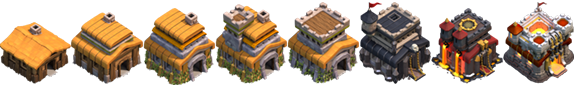
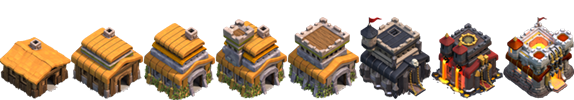
you can now see buildings! upgrade and see changes.

diff --git a/src/viewers/VillageScene.java b/src/viewers/VillageScene.java
@@ -6,6 +6,7 @@ import javafx.scene.image.ImageView;
 import javafx.scene.layout.GridPane;
 import javafx.scene.layout.Pane;
 import models.GameLogic.Entities.Buildings.Building;
+import models.GameLogic.Entities.Buildings.TownHall;
 import viewers.utils.DraggablePane;
 import viewers.utils.ImageLibrary;
 import viewers.utils.IsometricPane;
@@ -20,7 +21,6 @@ public class VillageScene extends Scene{
     private DraggablePane draggableView;
     private GridPane tiles;
     private IsometricPane isometricPane;
-    private Pane buildinsPane;
     private ImageView villageBackground = new ImageView();
 
     private VillageScene() {
@@ -47,15 +47,17 @@ public class VillageScene extends Scene{
         }
         isometricPane = new IsometricPane(tiles);
 
-        buildinsPane = new Pane();
-        for (Building building : AppGUI.getController().getWorld().getMyVillage().getBuildings()) {
-            buildinsPane.getChildren().add(building.getImageView());
-        }
-
         draggableView = new DraggablePane(villageBackground, isometricPane);
         draggableView.setMaxWidth(VIllAGE_BACKGROUND_WIDTH);
         draggableView.setMaxHeight(VIllAGE_BACKGROUND_HEIGHT);
         draggableView.initialize();
+
+        for (Building building : AppGUI.getController().getWorld().getMyVillage().getBuildings()) {
+            ImageView imageView = building.getImageView();
+            int size = (building.getClass().equals(TownHall.class)) ? 2 : 1;
+            IsometricPane.mapToIsometricLayout(imageView, building.getPosition(), size);
+            draggableView.getChildren().add(imageView);
+        }
 
         root.getChildren().clear();
         root.getChildren().addAll(draggableView);

diff --git a/src/models/GameLogic/Entities/Buildings/Building.java b/src/models/GameLogic/Entities/Buildings/Building.java
@@ -1,6 +1,7 @@
 package models.GameLogic.Entities.Buildings;
 
 import interfaces.Upgradable;
+import javafx.geometry.Rectangle2D;
 import models.GameLogic.*;
 import models.GameLogic.Entities.Defender;
 import models.GameLogic.Bounty;
@@ -9,6 +10,7 @@ import models.GameLogic.Exceptions.UpgradeLimitReachedException;
 import models.GameLogic.enums.MoveType;
 import models.ID;
 import models.Setting.GameLogicConfig;
+import viewers.utils.Const;
 
 public abstract class Building extends Defender implements Upgradable, Comparable<Building> {
     protected int score;
@@ -39,6 +41,8 @@ public abstract class Building extends Defender implements Upgradable, Comparabl
         } else {
             this.isUnderConstruct = false;
         }
+        updateViewPort();
+
     }
 
     public int getMaxLevel() {
@@ -111,6 +115,22 @@ public abstract class Building extends Defender implements Upgradable, Comparabl
         if (level >= maxLevel)
             throw new UpgradeLimitReachedException();
         level++;
+        updateViewPort();
+    }
+
+    public void updateViewPort() {
+        double offset = level * Const.BUILDING_TILE_WIDTH;
+        double width = Const.BUILDING_TILE_WIDTH;
+        double height = Const.BUILDING_TILE_HEIGHT;
+        if (this.getClass().equals(TownHall.class)) {
+            offset = level * Const.TOWNHALL_TILE_WIDTH;
+            width = Const.TOWNHALL_TILE_WIDTH;
+            height = Const.TOWNHALL_TILE_HEIGHT;
+        }
+        if (offset >= getImageView().getImage().getWidth()) {
+            return;
+        }
+        getImageView().setViewport(new Rectangle2D(offset, 0, width, height));
     }
 
     @Override

diff --git a/src/controllers/Controller.java b/src/controllers/Controller.java
@@ -35,7 +35,12 @@ public class Controller {
 
     public static void main(String[] args) {
         new Thread(() -> Application.launch(AppGUI.class, args)).start();
-        controller.menuController.openMenu(controller.menuController.getEntranceMenu());
+//        controller.menuController.openMenu(controller.menuController.getEntranceMenu()); //TEMP
+//         TEMP
+        controller.newGame();
+        controller.menuController.openMenu(controller.menuController.getVillageMenu());
+//
+
         while (controller.menuController.isMenuOpen()) {
             try {
                 handleMenuInputs();
@@ -53,7 +58,7 @@ public class Controller {
     }
 
     private static void handleMenuInputs() throws InvalidInputException, NoFreeBuilderException, InvalidPositionException, NotEnoughResourcesException, CountLimitReachedException, NotAvailableAtThisLevelException, FileNotFoundException, TroopNotFoundException {
-        controller.villageViewer = new VillageViewer(controller.world.getMyVillage());
+//        controller.villageViewer = new VillageViewer(controller.world.getMyVillage()); //TEMP
         controller.menuController.printMenu();
         String command = controller.viewer.getInput();
         if (controller.menuController.isMenuItemNumber(command)) {

diff --git a/src/models/GameLogic/Entities/Entity.java b/src/models/GameLogic/Entities/Entity.java
@@ -1,8 +1,10 @@
 package models.GameLogic.Entities;
 
 import interfaces.Locatable;
+import javafx.geometry.Rectangle2D;
 import javafx.scene.image.ImageView;
 import models.GameLogic.Position;
+import viewers.utils.ImageLibrary;
 
 public class Entity implements Locatable {
     protected Position position;
@@ -10,14 +12,16 @@ public class Entity implements Locatable {
     private ImageView imageView;
 
     public Entity(){
+        setImage();
     }
 
     public Entity(Position position) {
+        setImage();
         this.position = position;
     }
 
     public Entity(int x, int y) {
-
+        setImage();
     }
 
     public Position getPosition() {
@@ -30,5 +34,13 @@ public class Entity implements Locatable {
 
     public ImageView getImageView() {
         return imageView;
+    }
+
+    private void setImage() {
+        try {
+            imageView = new ImageView(ImageLibrary.valueOf(this.getClass().getSimpleName()).getImage());
+        } catch (IllegalArgumentException e) {
+            imageView = new ImageView();
+        }
     }
 }

diff --git a/src/viewers/utils/Const.java b/src/viewers/utils/Const.java
@@ -7,12 +7,19 @@ public class Const {
     public static final String VIllAGE_BACKGROUND_PATH = "assets/map/village.jpg";
     public static final double VIllAGE_BACKGROUND_WIDTH = 2478;
     public static final double VIllAGE_BACKGROUND_HEIGHT = 2682;
+    public static final double MAP_ORIGIN_X = 1254;
+    public static final double MAP_ORIGIN_Y = 557;
+    public static final double MAP_SLOPE_ANGEL = 33;
     public static final double GRID_PANE_LAYOUT_X = 580;
     public static final double GRID_PANE_LAYOUT_Y = 530;
     public static final double GRID_PANE_ROTATE_Y = 49.5;
     public static final double TILE_SIZE = 44;
+    public static final double ISOMETRIC_TILE_SIZE = 37.75;
+    public static final double ISOMETRIC_TILE_WIDTH = 36;
 
     public static final double BUILDING_TILE_WIDTH = 36;
     public static final double BUILDING_TILE_HEIGHT = 65;
+    public static final double TOWNHALL_TILE_WIDTH = 72;
+    public static final double TOWNHALL_TILE_HEIGHT = 100;
 
 }

diff --git a/src/viewers/utils/IsometricPane.java b/src/viewers/utils/IsometricPane.java
@@ -3,6 +3,7 @@ package viewers.utils;
 import javafx.geometry.Point3D;
 import javafx.scene.Node;
 import javafx.scene.layout.Pane;
+import models.GameLogic.Position;
 
 import static viewers.utils.Const.*;
 
@@ -19,5 +20,10 @@ public class IsometricPane extends Pane {
         wrapperPane.setLayoutX(GRID_PANE_LAYOUT_X);
         wrapperPane.setLayoutY(GRID_PANE_LAYOUT_Y);
         this.getChildren().add(wrapperPane);
+    }
+
+    public static void mapToIsometricLayout(Node node, Position position, int size) {
+        node.setLayoutX(MAP_ORIGIN_X - ISOMETRIC_TILE_WIDTH / 2 * size + (position.getMapX() - position.getMapY()) * ISOMETRIC_TILE_SIZE * Math.cos(Math.toRadians(MAP_SLOPE_ANGEL)));
+        node.setLayoutY(MAP_ORIGIN_Y + (position.getMapX() + position.getMapY()) * ISOMETRIC_TILE_SIZE * Math.sin(Math.toRadians(MAP_SLOPE_ANGEL)));
     }
 }

diff --git a/src/viewers/utils/DraggablePane.java b/src/viewers/utils/DraggablePane.java
@@ -2,11 +2,12 @@ package viewers.utils;
 
 import javafx.scene.Cursor;
 import javafx.scene.Node;
+import javafx.scene.layout.Pane;
 import javafx.scene.layout.StackPane;
 
 import static viewers.utils.Const.*;
 
-public class DraggablePane extends StackPane {
+public class DraggablePane extends Pane {
     private double startX;
     private double startY;
 

diff --git a/src/models/GameLogic/Entities/Buildings/TownHall.java b/src/models/GameLogic/Entities/Buildings/TownHall.java
@@ -45,6 +45,7 @@ public class TownHall extends Storage {
         Building.setMaxLevel(level);
         int hitPointsAddition = (int) GameLogicConfig.getFromDictionary("TownHallUpgradeHitPointsAddition");
         this.setHitPoints(this.hitPoints + hitPointsAddition);
+        updateViewPort();
     }
 
     @Override
